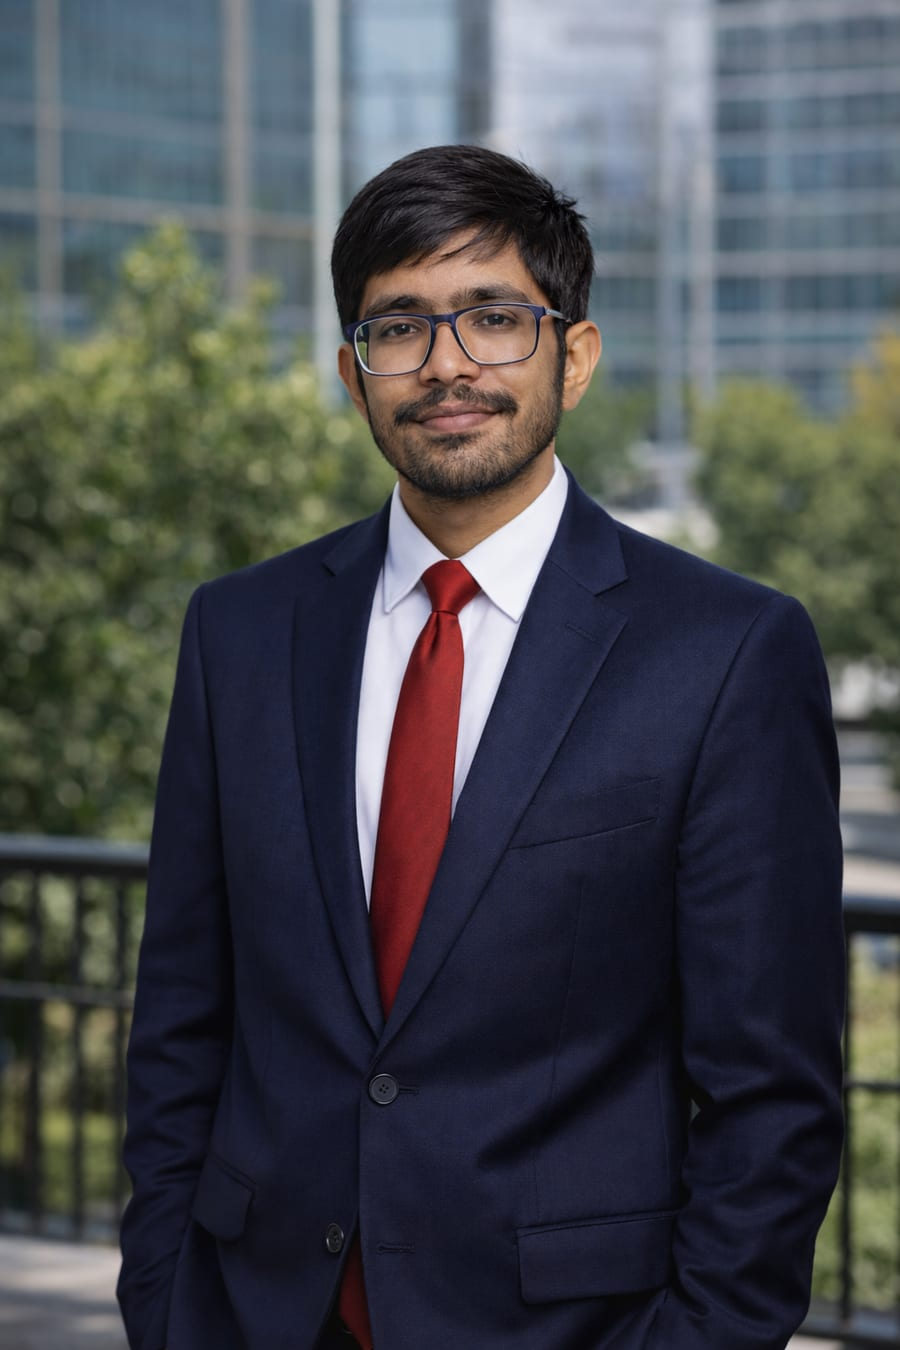
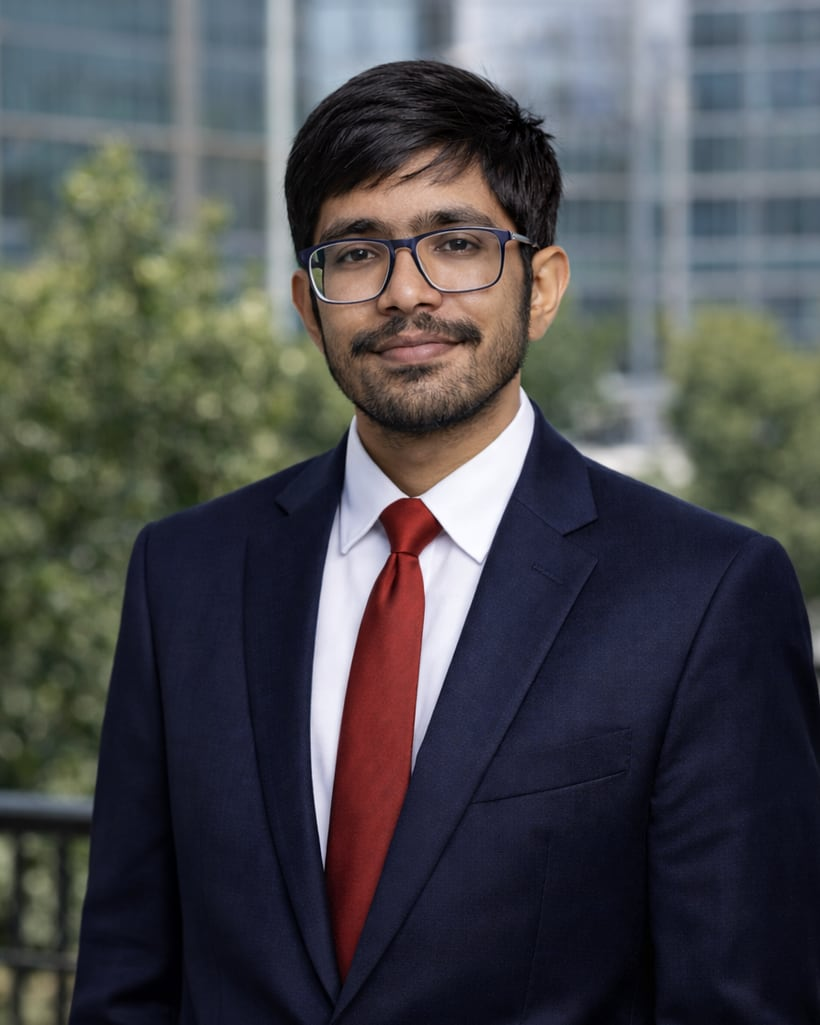
Add branded project covers, refine profile photo, fix DeepDub repo URL
- Replace the AI-generated cyberpunk project images with clean, on-brand
  cover graphics (charcoal ground, emerald accent, per-project line motif,
  project name / tagline / stack) — consistent across all five, ~50 KB each
- Recrop and grade the profile photo to a tighter head-and-shoulders frame,
  slightly desaturated to sit with the neutral theme
- Fix the DeepDub repo link (DeepDub -> DeepDubAI)
- Tighten the project <Image> sizes hint

diff --git a/src/data/projects.ts b/src/data/projects.ts
@@ -24,7 +24,7 @@ export const projects: Project[] = [
     tech: ["React", "TypeScript", "Node.js", "Express", "Socket.IO", "MongoDB"],
     repoLink: "https://github.com/Kamal-Poshala/syncspace",
     demoLink: "https://syncspace-frontend-six.vercel.app/",
-    image: "/projects/syncspace.png",
+    image: "/projects/syncspace.webp",
   },
   {
     title: "DeepDub",
@@ -35,8 +35,8 @@ export const projects: Project[] = [
       "An end-to-end multimodal pipeline — automatic speech recognition, translation, text-to-speech, and GAN-based lip sync — orchestrated asynchronously with FastAPI, Celery, and Redis. Modular fault isolation keeps each stage independently recoverable for videos up to 10 minutes.",
     highlight: "ASR → translation → TTS → GAN lip-sync, fully async with per-stage fault isolation",
     tech: ["PyTorch", "Whisper", "Wav2Lip", "FastAPI", "Celery", "Redis"],
-    repoLink: "https://github.com/Kamal-Poshala/DeepDub",
-    image: "/projects/deepdub.png",
+    repoLink: "https://github.com/Kamal-Poshala/DeepDubAI",
+    image: "/projects/deepdub.webp",
   },
   {
     title: "Multilingual Polarization Detection",
@@ -49,7 +49,7 @@ export const projects: Project[] = [
     tech: ["PyTorch", "LoRA / PEFT", "mBERT", "mT5", "scikit-learn"],
     repoLink: "https://github.com/Kamal-Poshala/multilingual_polarization_detection",
     paperLink: "/multilingual.pdf",
-    image: "/projects/polarization.png",
+    image: "/projects/polarization.webp",
   },
   {
     title: "CogniFetch",
@@ -61,7 +61,7 @@ export const projects: Project[] = [
     highlight: "Sub-50 ms p95 query latency — a 45% reduction — over 10,000+ documents",
     tech: ["Node.js", "TF-IDF", "MongoDB", "React", "OCR"],
     repoLink: "https://github.com/Kamal-Poshala/CogniFetch",
-    image: "/projects/cognifetch.png",
+    image: "/projects/cognifetch.webp",
   },
   {
     title: "IPMS",
@@ -73,6 +73,6 @@ export const projects: Project[] = [
     highlight: "1,000+ transaction events handled; approval turnaround cut 40% via automated reminders",
     tech: ["Node.js", "Express", "MongoDB", "REST APIs", "Cron"],
     repoLink: "https://github.com/Kamal-Poshala/IPMS",
-    image: "/projects/ipms.png",
+    image: "/projects/ipms.webp",
   },
 ];

diff --git a/src/components/Projects.tsx b/src/components/Projects.tsx
@@ -14,7 +14,7 @@ export default function Projects() {
                 src={p.image}
                 alt={`${p.title} — ${p.tagline}`}
                 fill
-                sizes="(max-width: 768px) 100vw, 40vw"
+                sizes="(min-width: 768px) 440px, 100vw"
                 className="object-cover"
               />
             </div>
